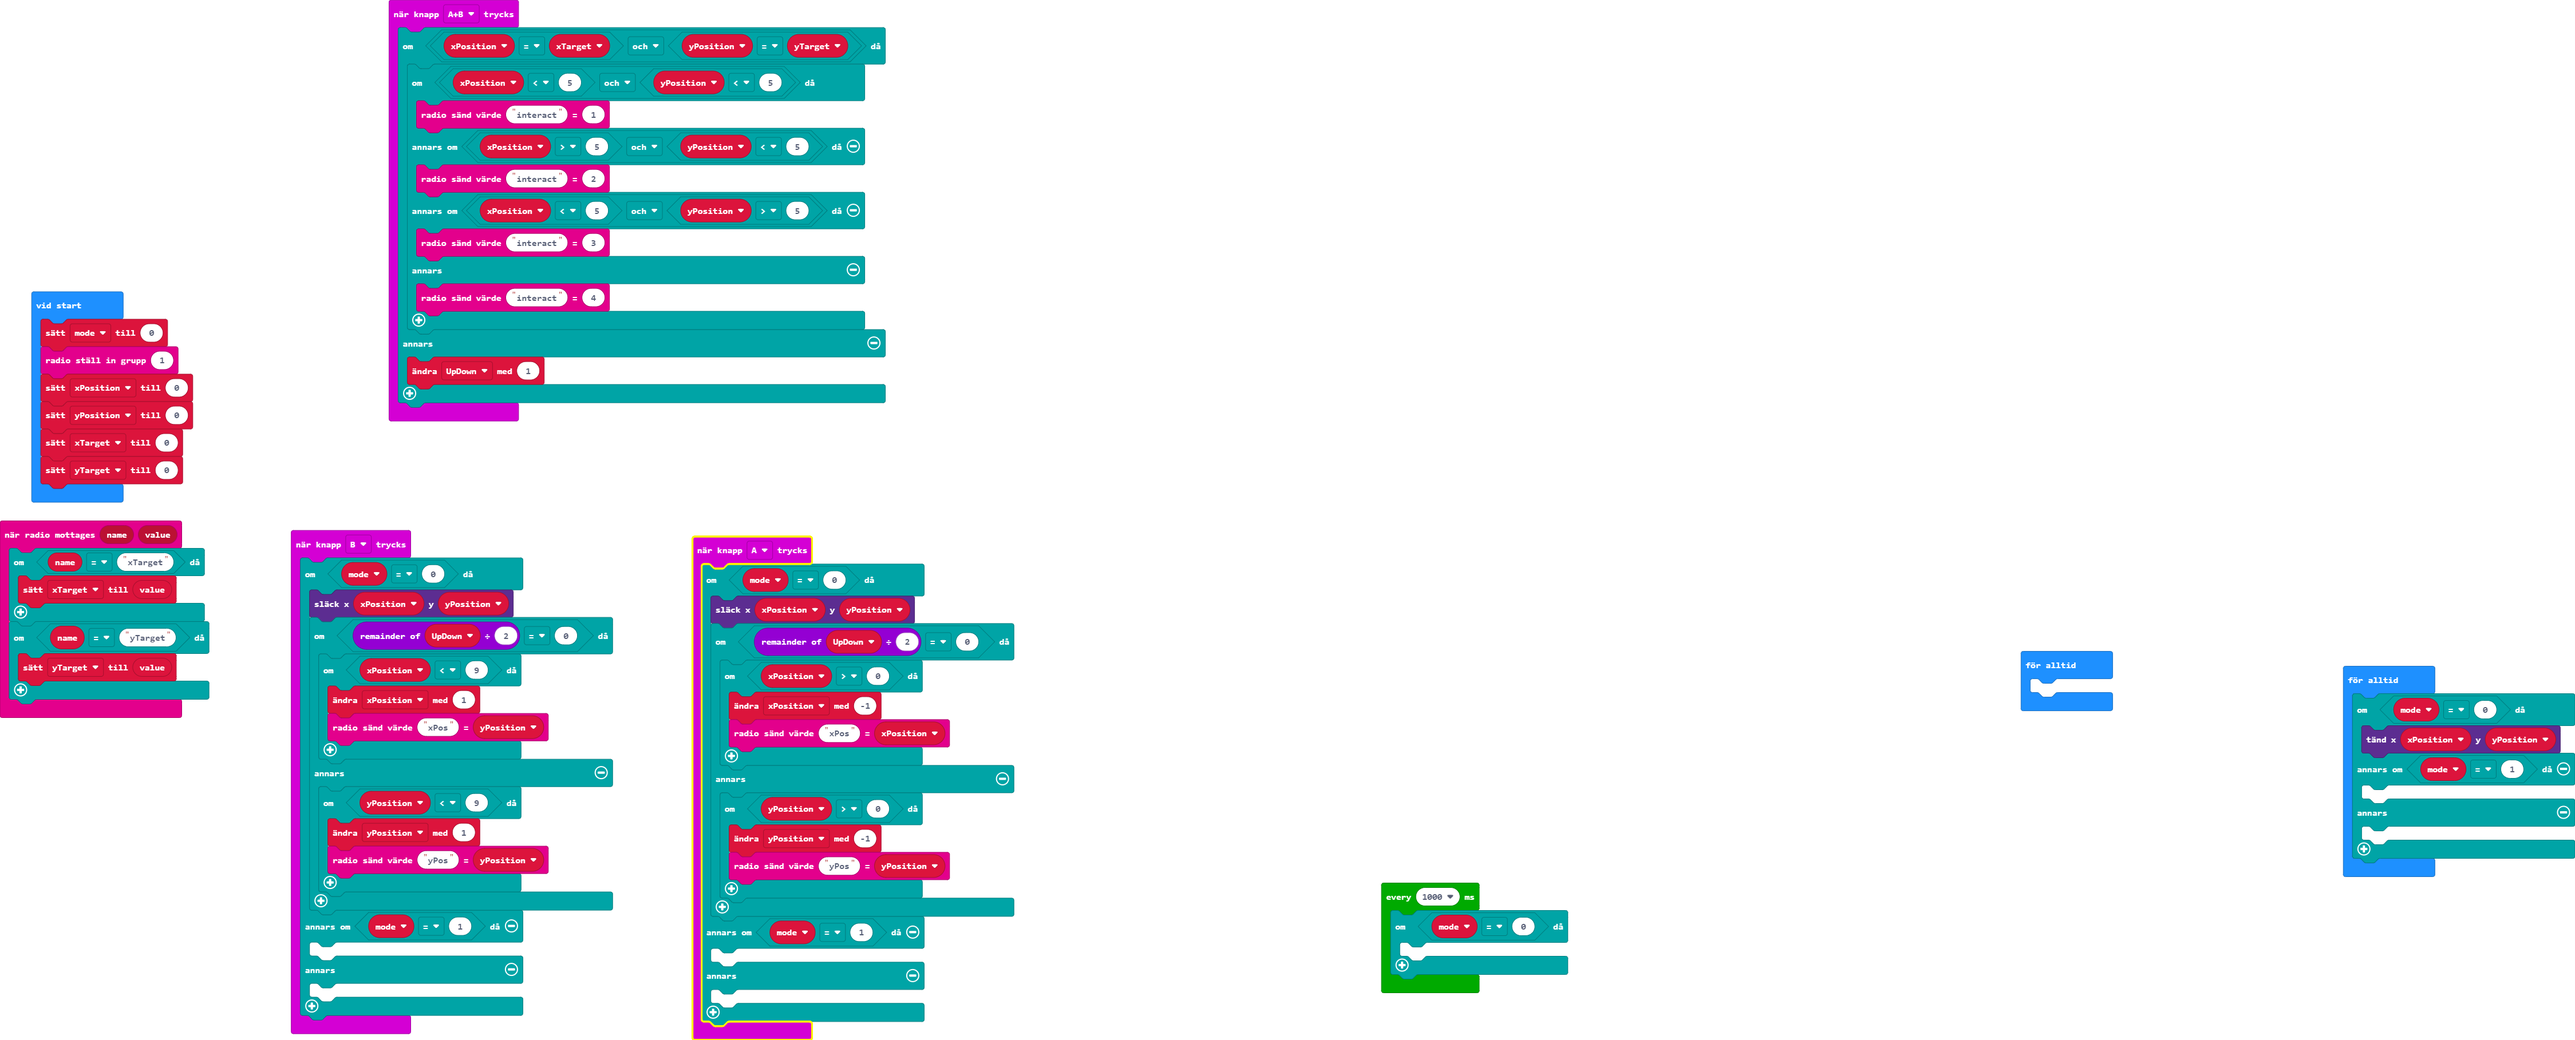
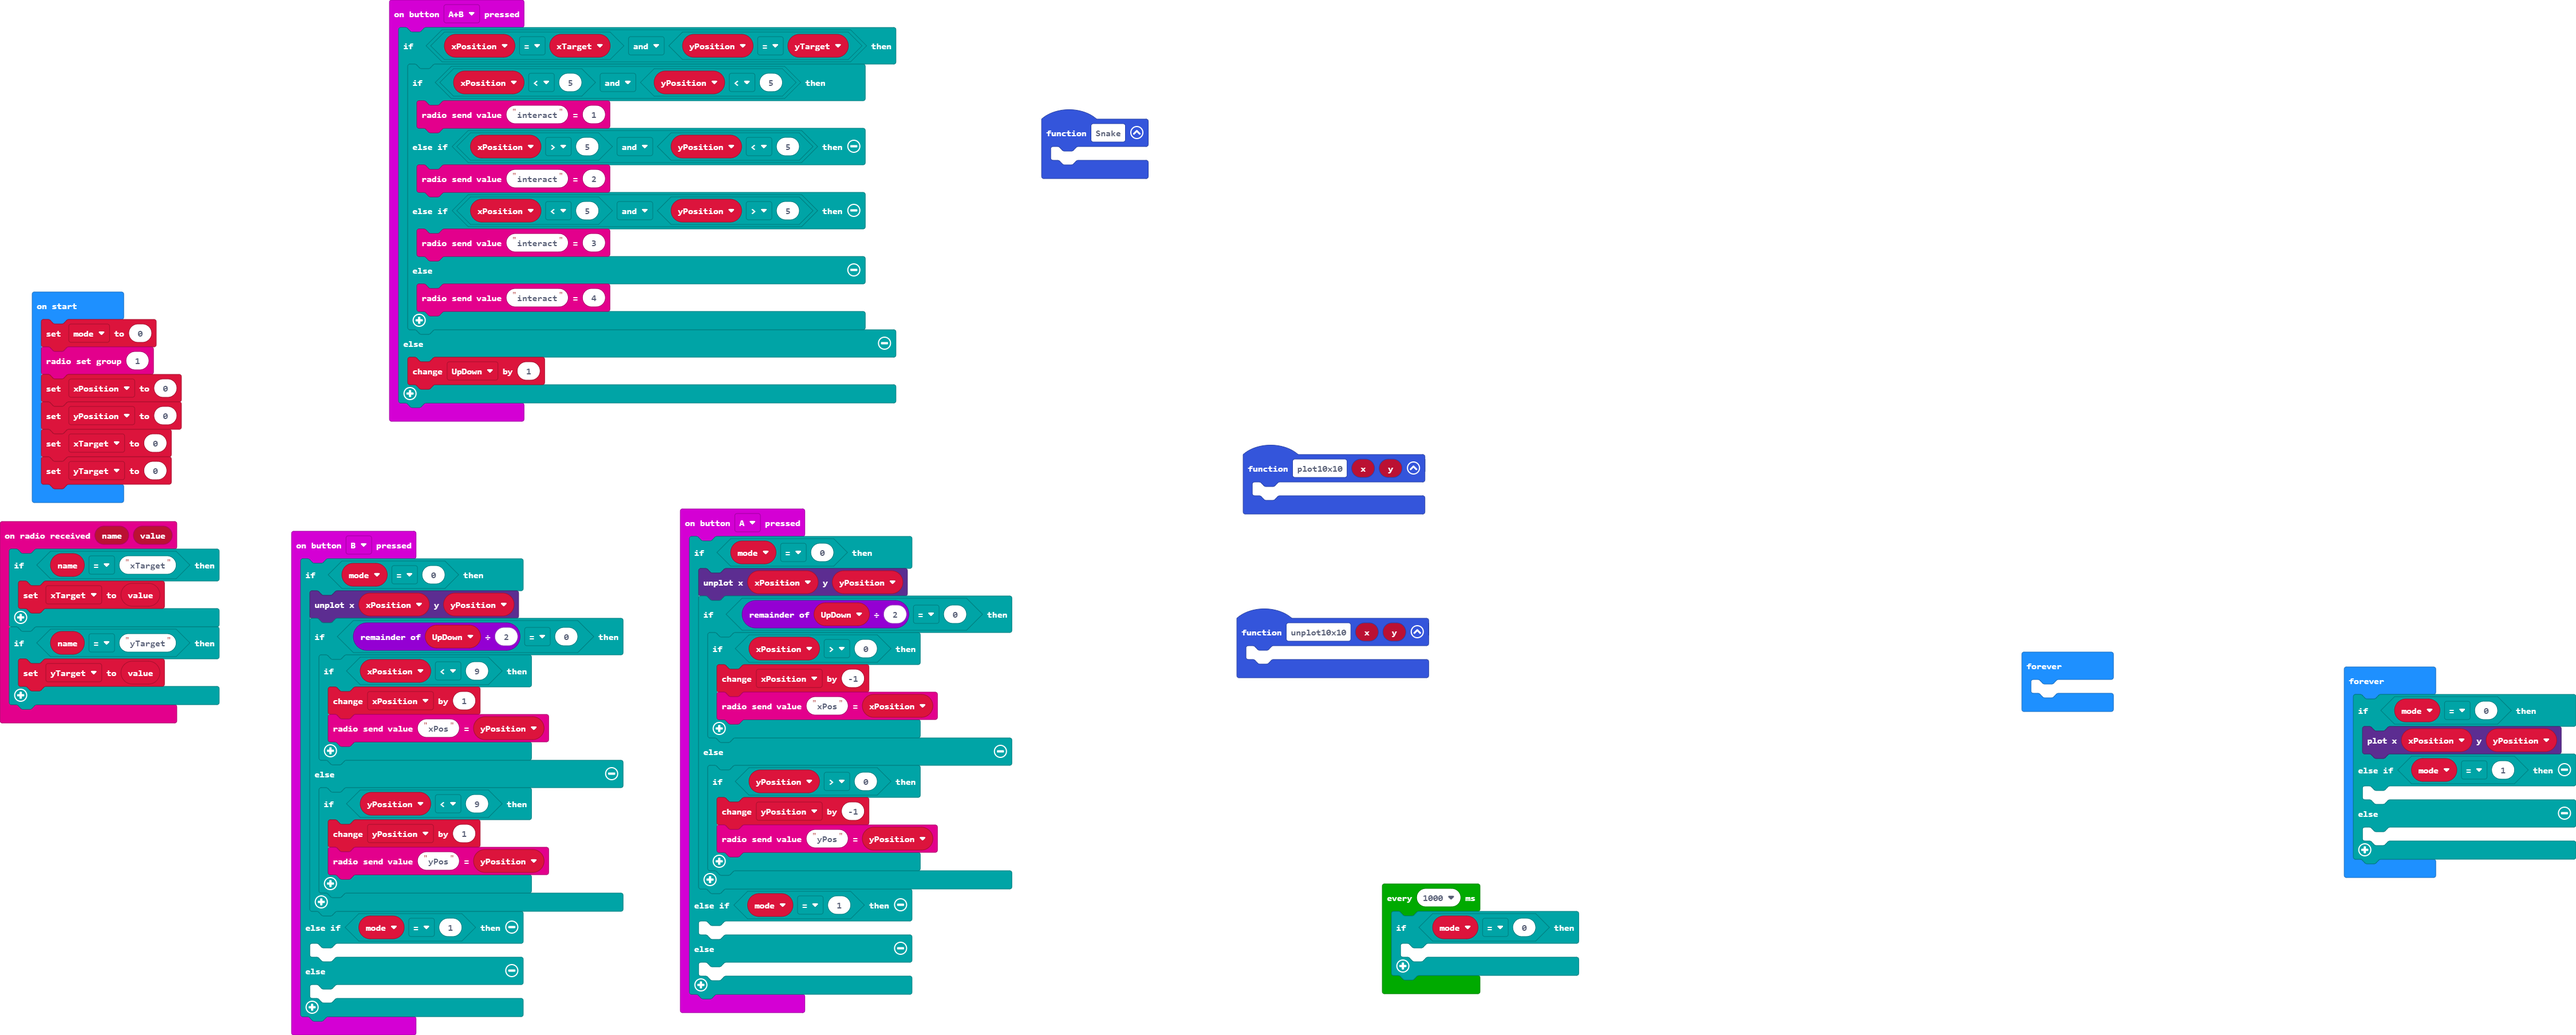
Update main.blocks, main.ts

diff --git a/main.ts b/main.ts
@@ -1,3 +1,9 @@
+function plot10x10 (x: number, y: number) {
+	
+}
+function Snake () {
+	
+}
 input.onButtonPressed(Button.A, function () {
     if (mode == 0) {
         led.unplot(xPosition, yPosition)
@@ -61,6 +67,9 @@ radio.onReceivedValue(function (name, value) {
         yTarget = value
     }
 })
+function unplot10x10 (x: number, y: number) {
+	
+}
 let UpDown = 0
 let yTarget = 0
 let xTarget = 0
